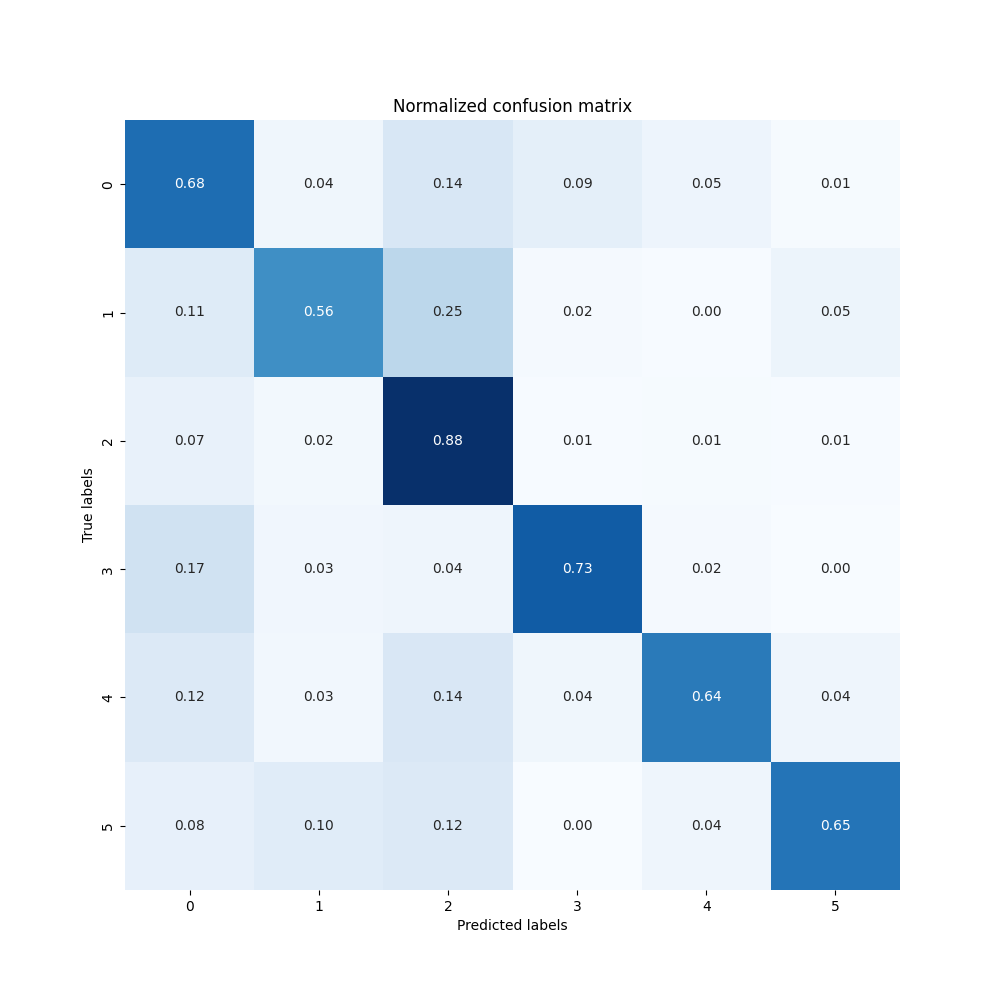
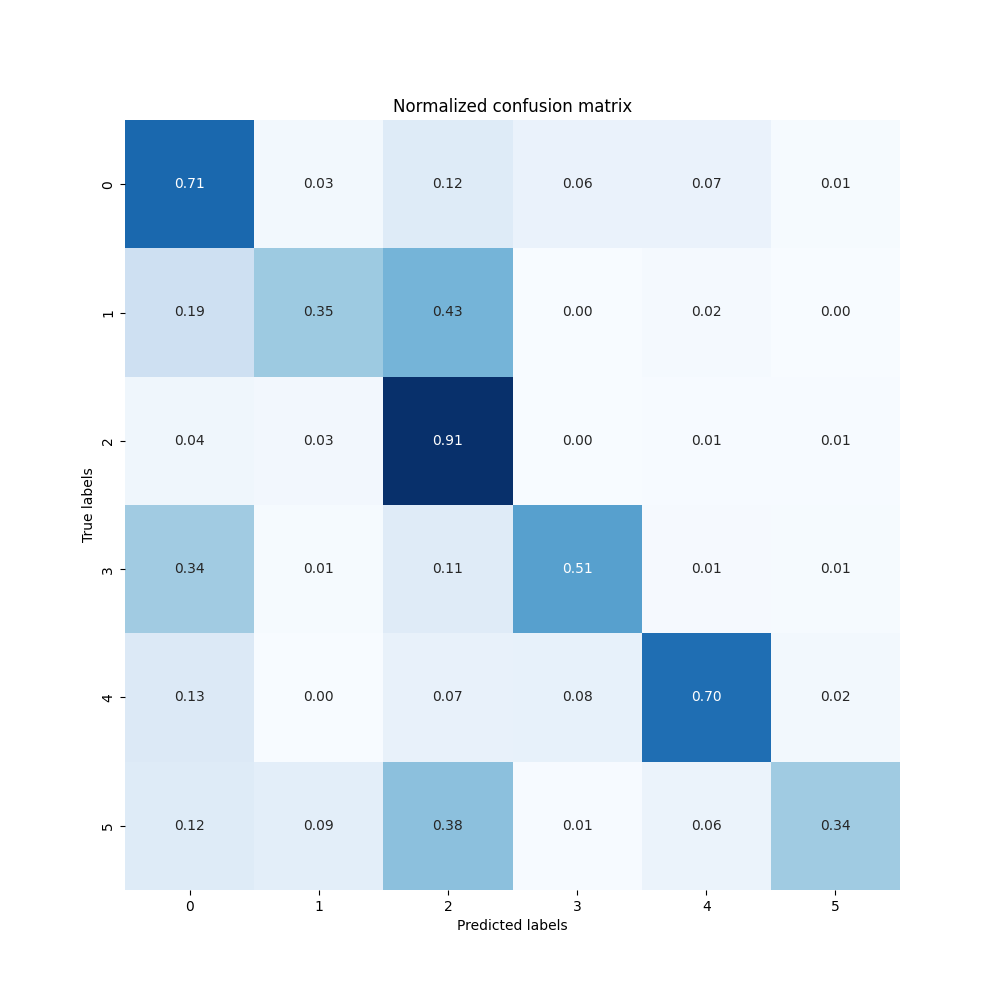
modify metrics folders

diff --git a/src/unet/unet_settings.py b/src/unet/unet_settings.py
@@ -4,11 +4,11 @@ from pathlib import Path
 import pandas as pd
 
 ## SETTINGS
-config_name = 'unet_256_l1/7_stratified_shuffling_by_zone_seed1_data_augmentation'
+config_name = 'unet_256_l1/0_random_shuffling_seed1'
 
 Path(f'../../{config_name}/models').mkdir(parents=True, exist_ok=True)
-Path(f'../../{config_name}/metrics_training').mkdir(exist_ok=True)
 Path(f'../../{config_name}/metrics_test').mkdir(exist_ok=True)
+Path(f'../../{config_name}/metrics_train_val').mkdir(exist_ok=True)
 
 patch_level_param = {
     'patch_size': 256, 
@@ -20,36 +20,36 @@ data_loading_settings = {
     'msk_folder' : Path(f'../../data/patch{patch_level_param["patch_size"]}/msk/'),
     'msks_256_fully_labelled' : pd.read_csv('../../csv/coverage_patch/p256_100per_labelled.csv'), 
     'path_pixels_by_zone': Path(f'../../csv/l{patch_level_param["level"]}_nb_pixels_by_zone.csv'),
-    'stratified' : 'zone', # 'random', 'zone', 'image'
+    'stratified' : 'image', # 'random', 'zone', 'image'
     'random_seed' : 1,
     'splitting' : [0.6, 0.2, 0.2],
-    'bs': 8,
+    'bs': 16,
     'classes_balance': Path(f'../../{config_name}/classes_balance.csv'),
     'img_ids_by_set': Path(f'../../{config_name}/img_ids_by_set.csv'),
-    'data_augmentation': True,
+    'data_augmentation': False,
 }
 
 model_settings = {
     'encoder_name': "efficientnet-b7",
-    'encoder_weights': "imagenet", #"imagenet" or None
+    'encoder_weights': None, #"imagenet" or None
     'in_channels': 4,
     'classes': 6 if patch_level_param['level'] == 1 else 113, # 113 to be checked
     'path_to_intermed_model': f'../../{config_name}/models/unet_intermed',
     'path_to_intermed_optim': f'../../{config_name}/models/optim_intermed',
     'path_to_last_model': f'../../{config_name}/models/unet_last.pt',
     'path_to_last_optim': f'../../{config_name}/models/optim_last.pt',
-    'path_to_best_model': f'../../{config_name}/models/unet_intermed_epoch7.pt'#f'../../{config_name}/models/unet_intermed_epoch34.pt',#f'../../{config_name}/models/unet_intermed_epoch10.pt',#f'../../{config_name}/models/unet_intermed_epoch3.pt',#f'../../{config_name}/models/unet_intermed_epoch63.pt',#f'../../{config_name}/models/unet_intermed_epoch35.pt',
+    'path_to_best_model': f'../../{config_name}/models/unet_intermed_epoch54.pt'#f'../../{config_name}/models/unet_intermed_epoch34.pt',#f'../../{config_name}/models/unet_intermed_epoch10.pt',#f'../../{config_name}/models/unet_intermed_epoch3.pt',#f'../../{config_name}/models/unet_intermed_epoch63.pt',#f'../../{config_name}/models/unet_intermed_epoch35.pt',
     }
 
 training_settings = {
-    'training': True,
+    'training': False,
     'lr': 1e-4,
     'criterion': 'Dice', #Dice or CrossEntropy
     'optimizer': 'Adam',
     'nb_epochs': 40, 
     'early_stopping': True,
     'patience': 15,
-    'losses_mious_path': f'../../{config_name}/losses_mious.csv',
+    'losses_mious_path': f'../../{config_name}/metrics_train_val/losses_mious.csv',
     'restart_training': None, # 42 if you want to restart training from a certain epoch, put the epoch number here, else put 0
 }
 

diff --git a/src/unet/unet.py b/src/unet/unet.py
@@ -242,6 +242,9 @@ metrics['IoU_by_class']['mean'] = metrics['mIoU']
 #same for F1
 metrics['F1_by_class']['mean'] = metrics['mF1']
 # from metrics['IoU_by_class'] and metrics['F1_by_class'] create a df and save it to csv
+# save only 2 decimals for IoU and F1
+metrics['IoU_by_class'] = {k: round(v, 2) for k, v in metrics['IoU_by_class'].items()}
+metrics['F1_by_class'] = {k: round(v, 2) for k, v in metrics['F1_by_class'].items()}
 iou_df = pd.DataFrame(metrics['IoU_by_class'].items(), columns=['class', 'IoU'])
 iou_df.to_csv(plotting_settings['IoU_path'], index=False)
 f1_df = pd.DataFrame(metrics['F1_by_class'].items(), columns=['class', 'F1'])
